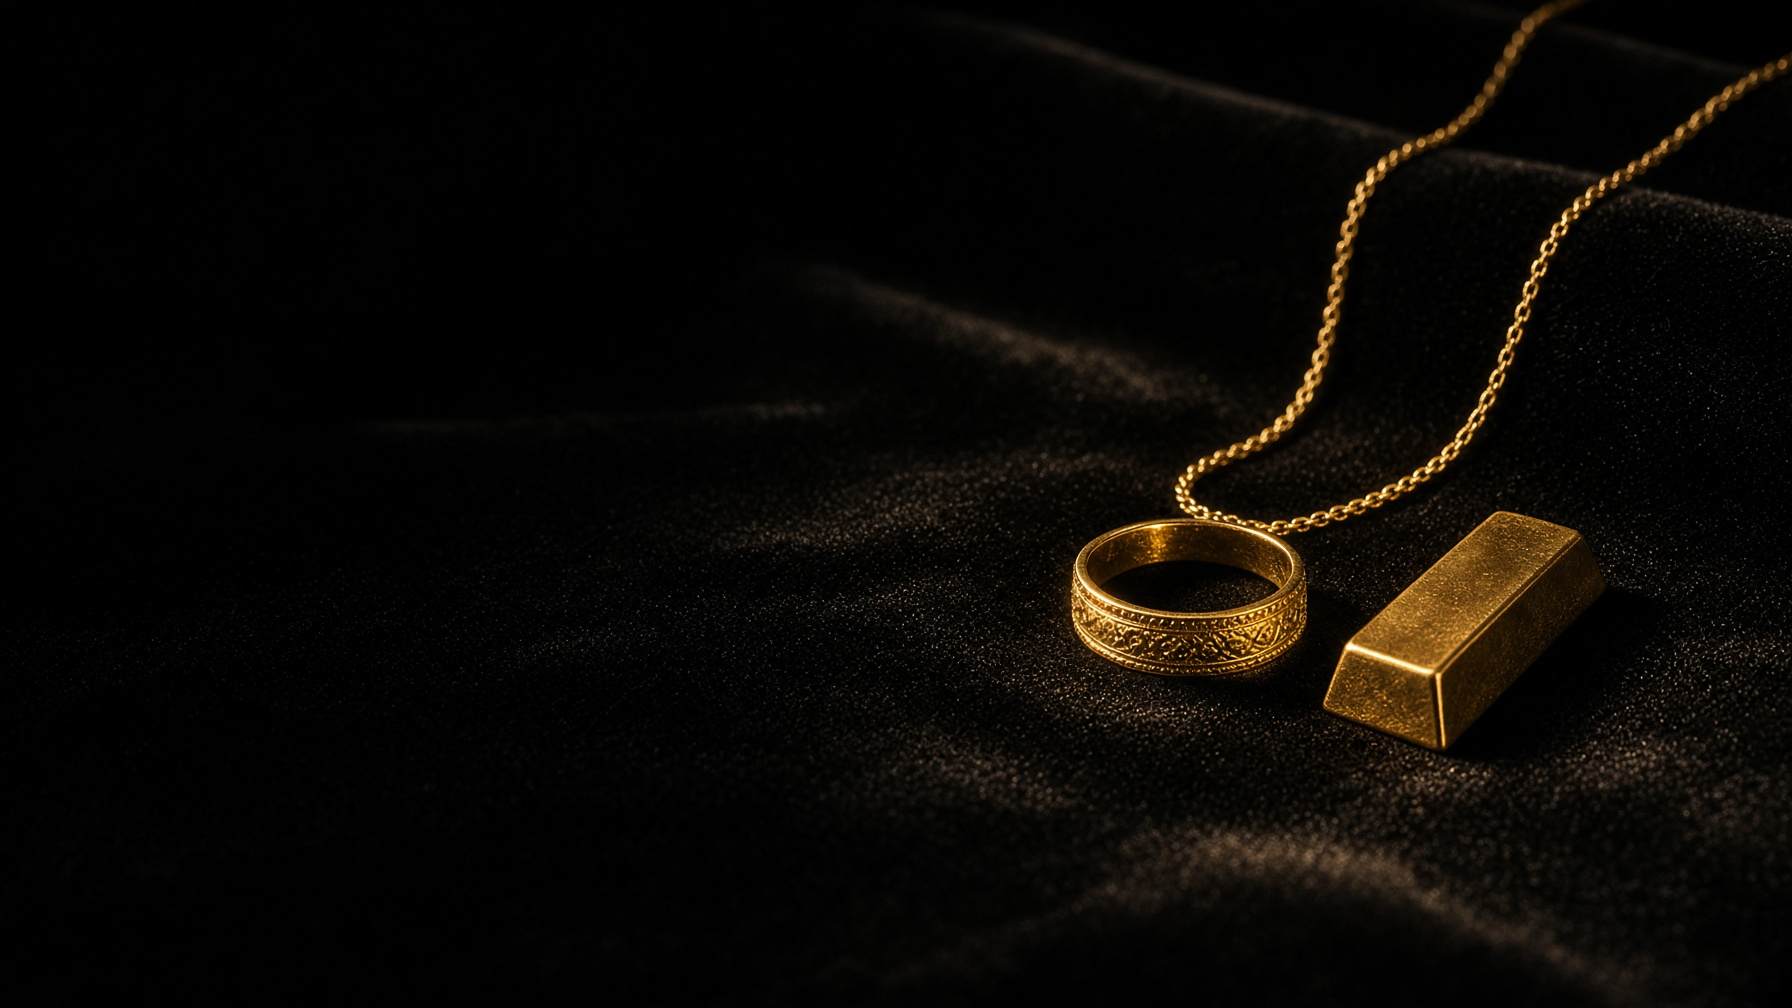
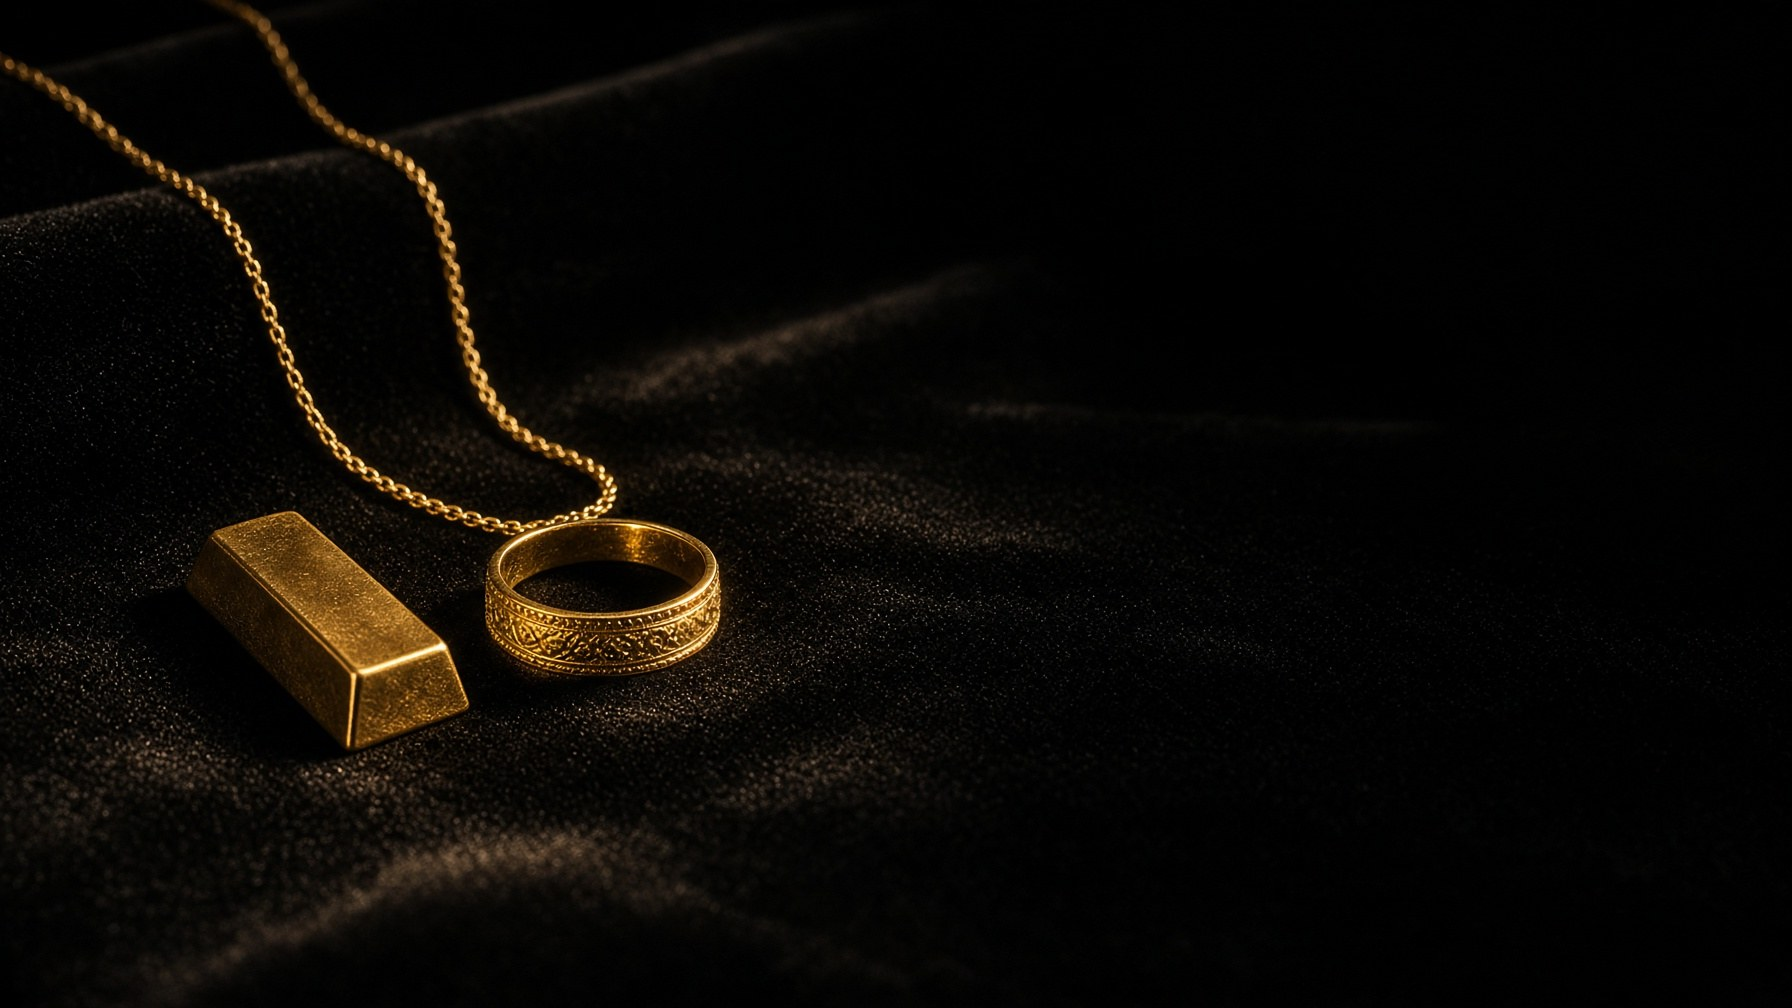
히어로 사진 복구, 주얼리를 좌측에 배치

diff --git a/docs/index.html b/docs/index.html
@@ -83,10 +83,10 @@
       background: var(--night); color: var(--ivory); overflow: hidden;
       display: flex; align-items: flex-end;
     }
-    .hero img { position: absolute; inset: 0; width: 100%; height: 100%; object-fit: cover; object-position: left center; transform: scaleX(-1); opacity: 0.55; }
+    .hero img { position: absolute; inset: 0; width: 100%; height: 100%; object-fit: cover; object-position: left center; opacity: 0.55; }
     .hero-mask {
       position: absolute; inset: 0;
-      background: linear-gradient(to top, var(--night) 0%, rgba(16,14,12,.55) 45%, rgba(16,14,12,.25) 100%);
+      background: linear-gradient(90deg, rgba(16,14,12,.55) 0%, rgba(16,14,12,.4) 40%, rgba(16,14,12,.75) 100%);
     }
     .hero-copy { position: relative; padding: 7rem 0 4rem; }
     .kicker { font-size: 12px; letter-spacing: 0.28em; color: var(--gold); margin: 0; }
@@ -293,7 +293,7 @@
   </header>
 
   <section class="hero" id="top">
-    <img src="hero.jpg" alt="" />
+    <img src="hero.jpg?v=2" alt="" />
     <div class="hero-mask"></div>
     <div class="wrap hero-copy">
       <p class="kicker">SONGPA · CHEONHO · FACTORY</p>

diff --git a/public/sample.html b/public/sample.html
@@ -83,10 +83,10 @@
       background: var(--night); color: var(--ivory); overflow: hidden;
       display: flex; align-items: flex-end;
     }
-    .hero img { position: absolute; inset: 0; width: 100%; height: 100%; object-fit: cover; object-position: left center; transform: scaleX(-1); opacity: 0.55; }
+    .hero img { position: absolute; inset: 0; width: 100%; height: 100%; object-fit: cover; object-position: left center; opacity: 0.55; }
     .hero-mask {
       position: absolute; inset: 0;
-      background: linear-gradient(to top, var(--night) 0%, rgba(16,14,12,.55) 45%, rgba(16,14,12,.25) 100%);
+      background: linear-gradient(90deg, rgba(16,14,12,.55) 0%, rgba(16,14,12,.4) 40%, rgba(16,14,12,.75) 100%);
     }
     .hero-copy { position: relative; padding: 7rem 0 4rem; }
     .kicker { font-size: 12px; letter-spacing: 0.28em; color: var(--gold); margin: 0; }
@@ -293,7 +293,7 @@
   </header>
 
   <section class="hero" id="top">
-    <img src="hero.jpg" alt="" />
+    <img src="hero.jpg?v=2" alt="" />
     <div class="hero-mask"></div>
     <div class="wrap hero-copy">
       <p class="kicker">SONGPA · CHEONHO · FACTORY</p>

diff --git a/src/routes/index.tsx b/src/routes/index.tsx
@@ -22,8 +22,8 @@ function Home() {
   return (
     <main>
       <section className="relative isolate min-h-[88svh] overflow-hidden bg-night text-ivory">
-        <img src="/hero.jpg" alt="" className="absolute inset-0 size-full -scale-x-100 object-cover object-left opacity-55" />
-        <div className="absolute inset-0 bg-linear-to-t from-night via-night/55 to-night/25" />
+        <img src="/hero.jpg?v=2" alt="" className="absolute inset-0 size-full object-cover object-left opacity-55" />
+        <div className="absolute inset-0 bg-linear-to-r from-night/55 via-night/40 to-night/75" />
         <div className="relative mx-auto flex min-h-[88svh] max-w-6xl flex-col justify-end px-4 pb-16 pt-24 sm:px-6 sm:pb-20">
           <p className="text-xs tracking-[0.28em] text-gold">SONGPA · CHEONHO · FACTORY</p>
           <div className="mt-4 flex flex-wrap gap-2">
